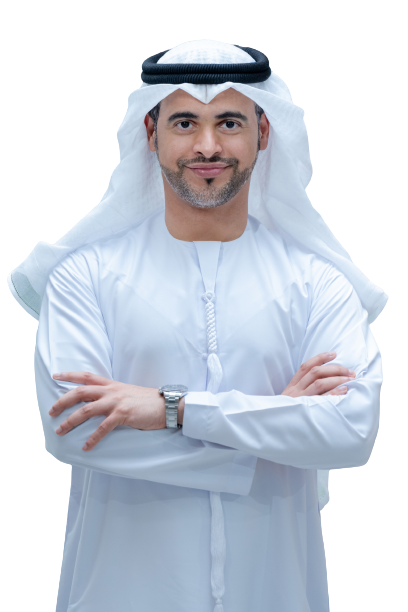
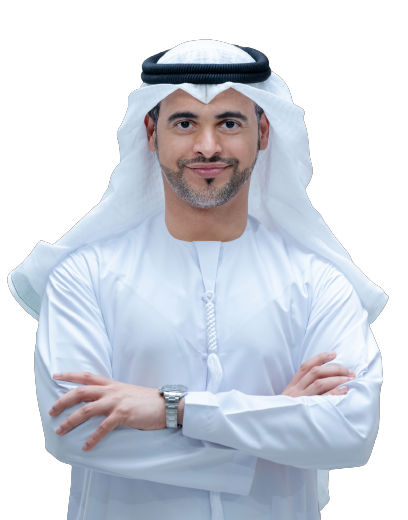
img

diff --git a/index.html b/index.html
@@ -611,10 +611,7 @@
       <div class="container speakers_container">
         <div class="speaker_content">
           <div class="img_container">
-            <img
-              src="./assets/images/speakers/salim-removebg-preview-4033.png"
-              alt="img"
-            />
+            <img src="./assets/images/speakers/salim.png" alt="img" />
           </div>
           <h5 class="text-primary">Dr. Salim Humaid Al-Shuaili</h5>
           <p>
@@ -708,7 +705,7 @@
         </div>
 
         <div class="speaker_content">
-          <div class="img_container">
+          <div class="img_container pt-4" style="overflow: hidden">
             <img src="./assets/images/speakers/WaadAlSalmani.png" alt="img" />
           </div>
           <h5 class="text-primary">Waad Al Salmani</h5>

diff --git a/assets/css/style.css b/assets/css/style.css
@@ -492,7 +492,7 @@ form label {
 }
 #speakers .speakers_container .speaker_content {
   padding: 12px;
-  height: 560px;
+  height: 600px;
   width: 300px;
   text-align: center;
   border-radius: 8px;
@@ -513,12 +513,12 @@ form label {
   background-position: center;
   background-repeat: no-repeat;
   background-size: cover;
-  height: 300px;
+  height: 340px;
   width: 300px;
 }
 #speakers .speakers_container .img_container img {
   /* border-radius: 50%; */
-  height: 300px;
+  height: 340px;
   width: 300px;
   /* box-shadow: rgba(50, 50, 93, 0.25) 0px 30px 60px -12px inset,
     rgba(0, 0, 0, 0.3) 0px 18px 36px -18px inset;
